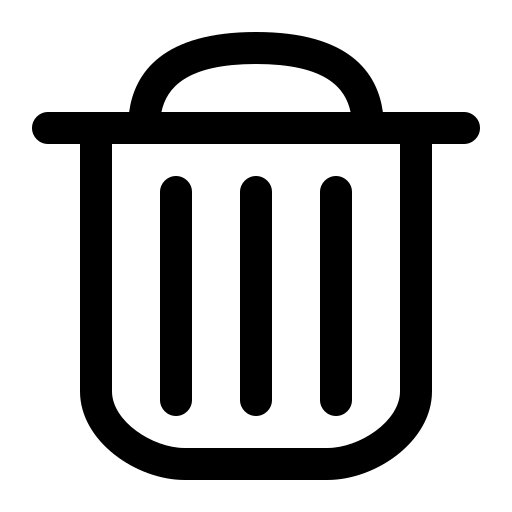
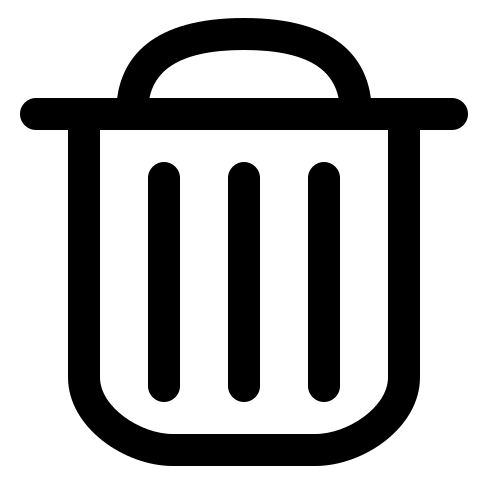
코멘트 쪽 마무리. 수정, 삭제 버튼 변경 & 코멘트 입력 창 고정. 스크롤 없앰. but 스크롤 기능은 가

Changed region(s): [[0.0307, 0.0309, 0.9836, 0.9588], [0.3689, 0.3711, 0.3996, 0.8041], [0.4611, 0.7732, 0.5533, 0.8351]]

diff --git a/css/sub.css b/css/sub.css
@@ -65,9 +65,22 @@ main {
   align-items: flex-start;
   background-color: black;
   opacity: 80%;
+  scrollbar-width: none;
+  -ms-overflow-style: none;
+}
+
+.commentBox::-webkit-scrollbar {
+  display: none;
+}
+
+section.comment-container {
+  position: relative;
 }
 
 #commentForm {
+  position: sticky;
+  top: 0;
+
   width: 30%;
   height: 300px;
   border: solid white 1.5px;
@@ -137,7 +150,7 @@ input:valid ~ label {
   -webkit-transition: 0.2s ease all;
 }
 .bar:before {
-  left: 43.5%;
+  left: 43%;
 }
 .bar:after {
   right: 50%;
@@ -190,6 +203,7 @@ input:focus ~ .bar:after {
 #commentBtn img {
   height: 30px;
   width: auto;
+  filter: contrast(60%);
 }
 
 /* 여기부터 댓글들 */
@@ -211,12 +225,25 @@ input:focus ~ .bar:after {
 
 .btn {
   position: absolute;
-  top: 5px;
-  right: 5px;
+  top: 10px;
+  right: 10px;
   cursor: pointer;
 }
 
 .group input:focus::placeholder {
   color: #999999;
   opacity: 1;
+}
+
+#edit,
+#delete {
+  all: unset;
+}
+
+#edit img,
+#delete img {
+  width: 25px;
+  height: 25px;
+  cursor: pointer;
+  filter: contrast(20%);
 }

diff --git a/js/comment.js b/js/comment.js
@@ -24,8 +24,8 @@ function createCommentHTML(comment, index) {
     <div class="writtenComment">
       <b>${comment.username}</b><p>${comment.comment}</p>
       <div class="btn">
-        <button id="edit" onclick="editComment(${index})">수정</button>
-        <button id="delete" onclick="deleteComment(${index})">삭제</button>
+        <button id="edit" onclick="editComment(${index})"><img src="../img/edit.png" alt="" /></button>
+        <button id="delete" onclick="deleteComment(${index})"><img src="../img/delete.png" alt="" /></button>
       </div>
     </div>
   `;
